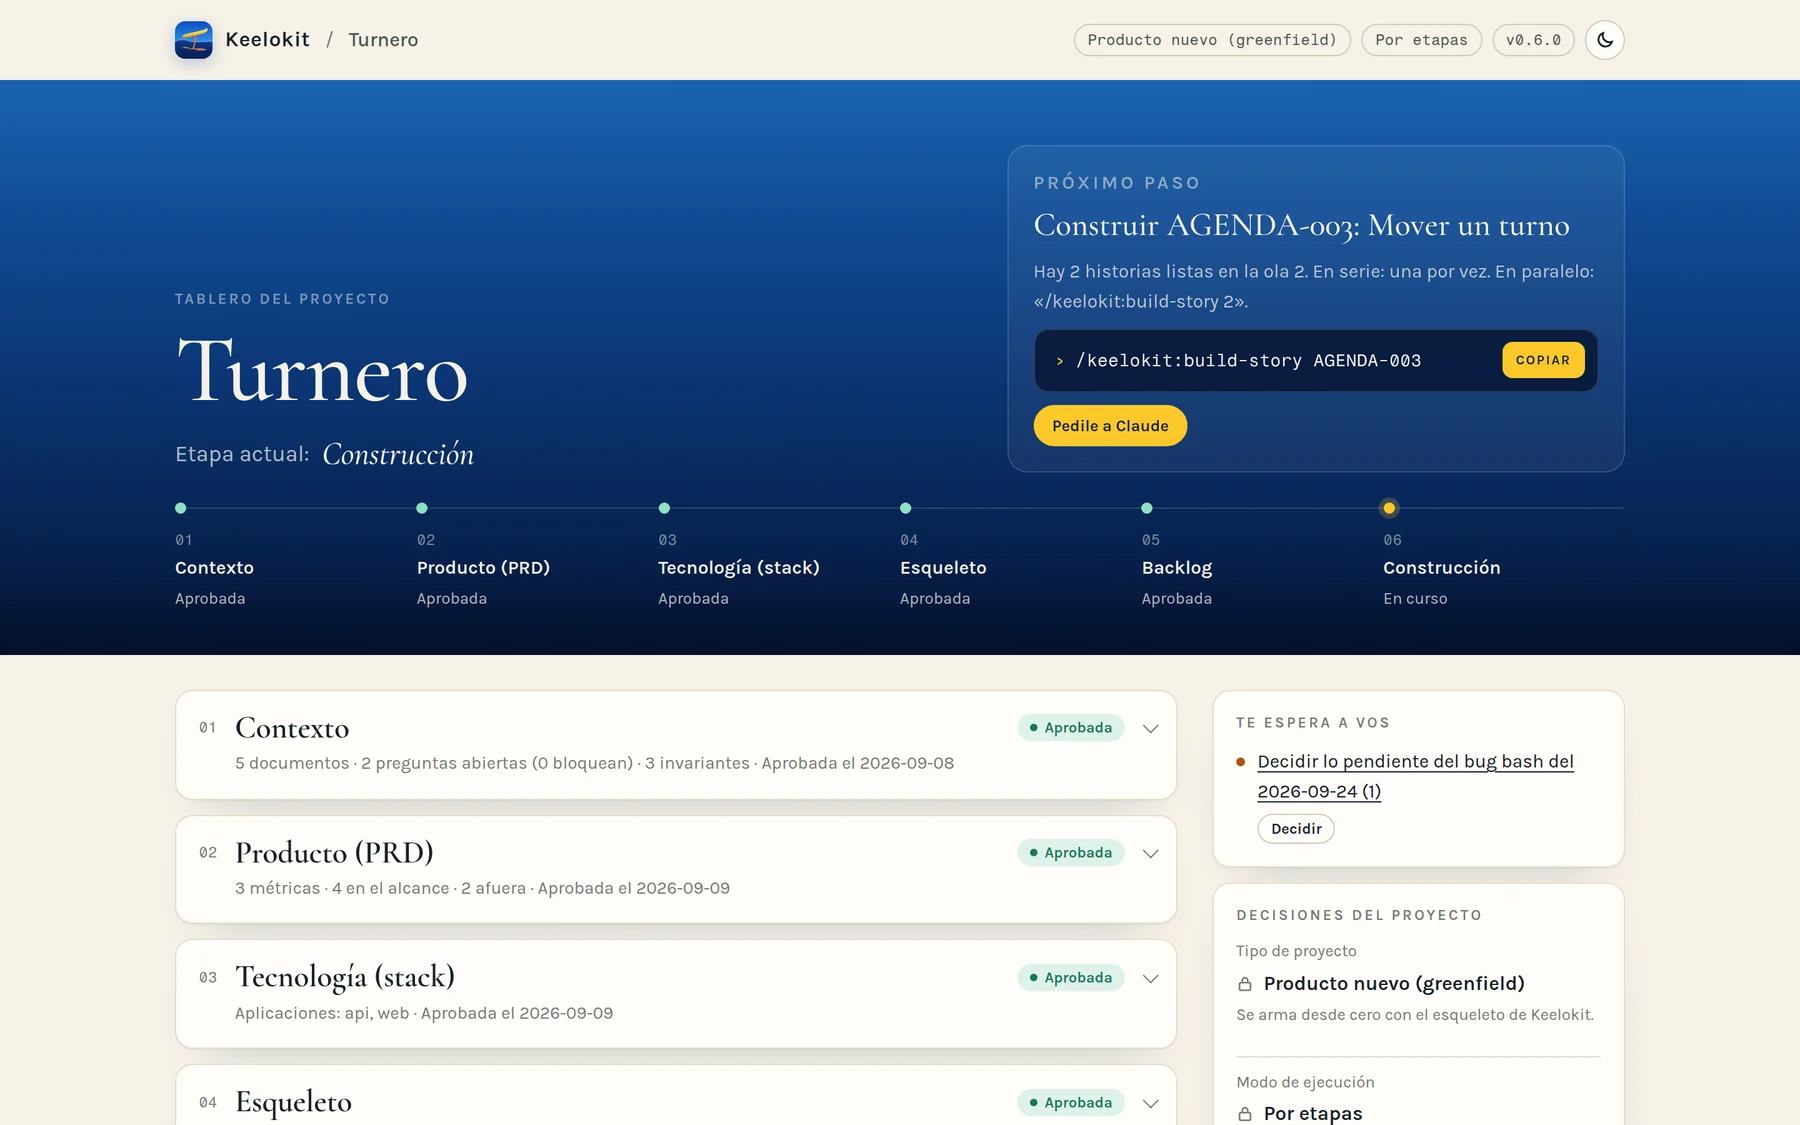
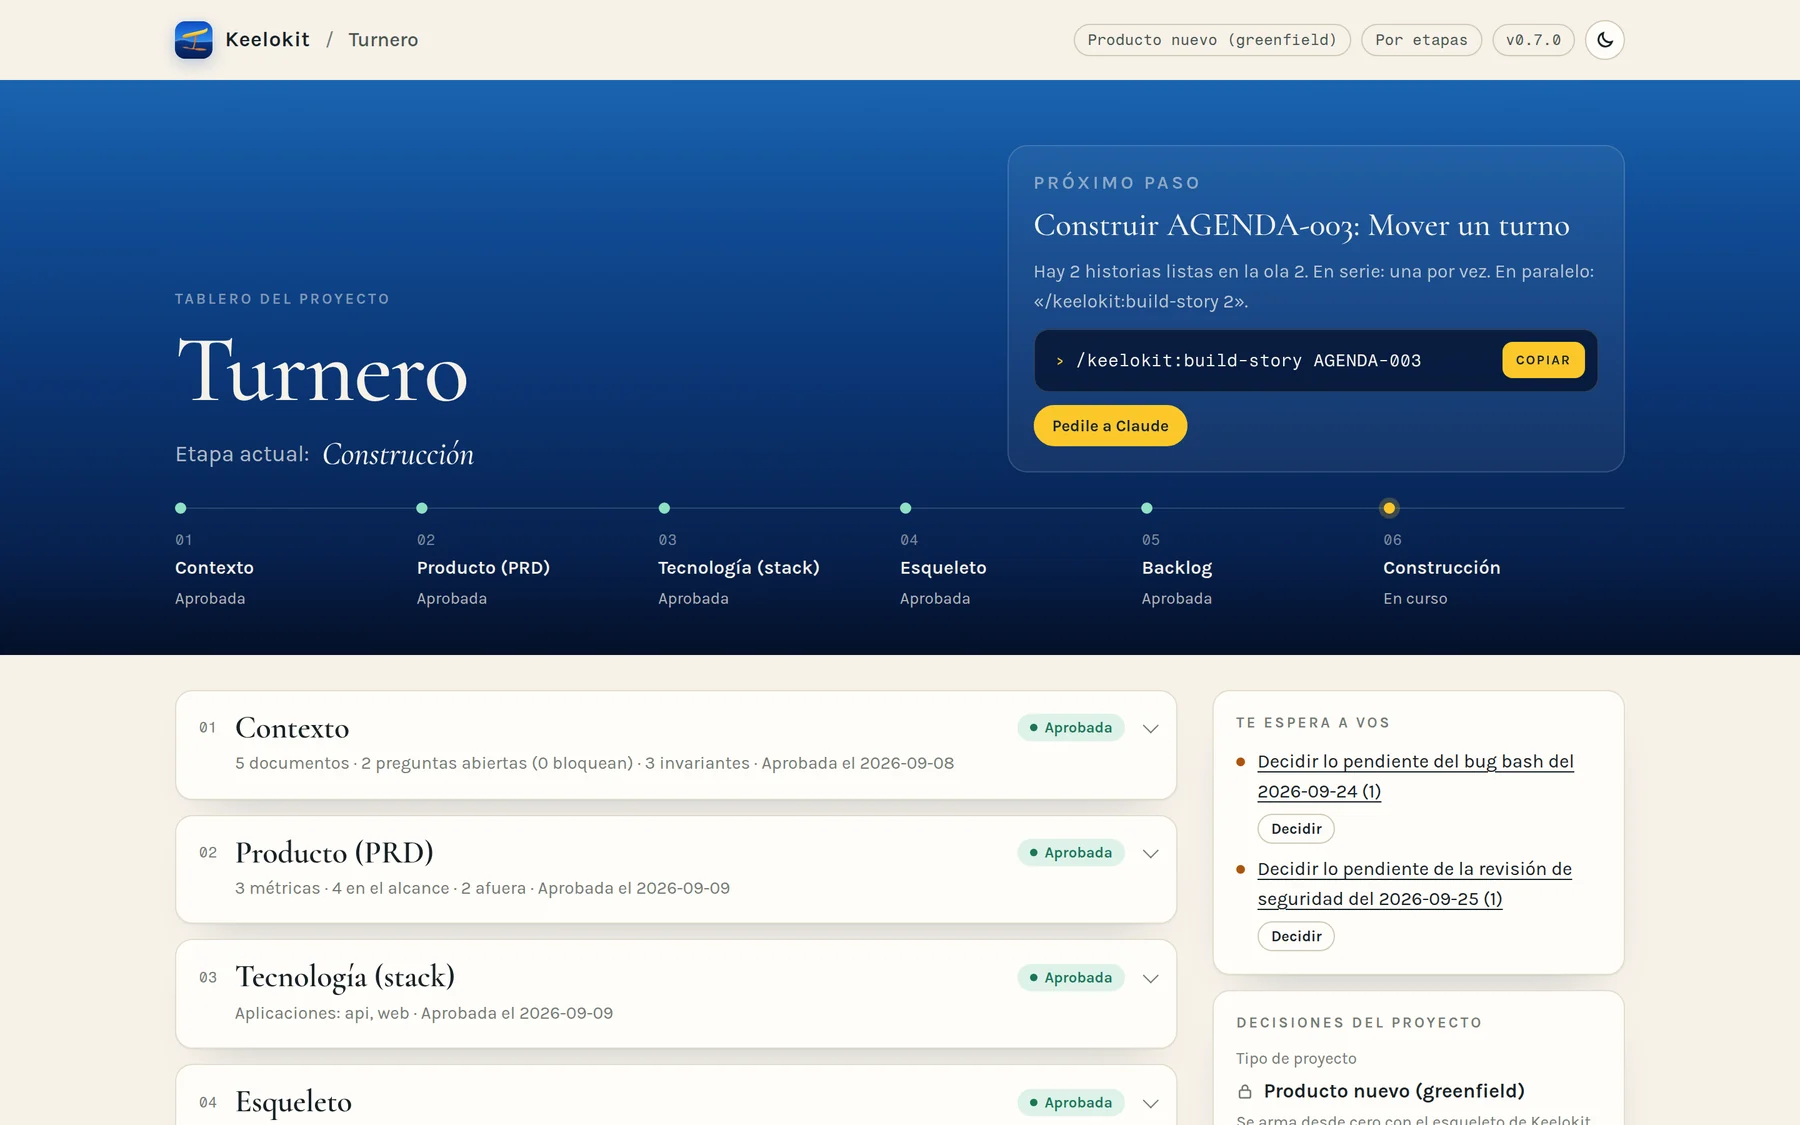
docs: 0.7.0 — commands by area in the READMEs, lifecycle, changelog; routing to ship-setup and ship-release
Claude-Session: https://claude.ai/code/session_01GzefXwY3r5MrLAN2X2Eaky

Changed region(s): [[0.6844, 0.7467, 0.9022, 1.0]]

diff --git a/skills/project-dashboard/scripts/dashboard.py b/skills/project-dashboard/scripts/dashboard.py
@@ -752,8 +752,8 @@ def collect(root: Path) -> dict:
             envs[row[0].strip("*` ")] = {"name": row[0].strip("*` "), "purpose": row[1] if len(row) > 1 else "",
                                          "url": row[2] if len(row) > 2 else "", "steps": []}
     for m in re.finditer(r"(?ms)^##\s+(.+?)\s*$(.*?)(?=^##\s|\Z)", deploy):
-        name = m.group(1).strip()
-        env = envs.setdefault(name, {"name": name, "purpose": "", "url": "", "steps": []})
+        env_name = m.group(1).strip()
+        env = envs.setdefault(env_name, {"name": env_name, "purpose": "", "url": "", "steps": []})
         env["steps"] = [{"done": x.lower() == "x", "text": t.strip()}
                         for x, t in re.findall(r"(?m)^\s*[-*]\s+\[([ xX])\]\s+(.+)$", m.group(2))]
         if not env["purpose"]:

diff --git a/tests/test_dashboard.py b/tests/test_dashboard.py
@@ -187,6 +187,7 @@ class DashboardTest(unittest.TestCase):
         self.write(".keelokit/answers.yml", "_commit: v0.0.1\nmode: project\nproject_name: Shop\n")
         self.write("docs/security/2026-10-01/report.md", "| Id | Area | Severity | Title | Status | Fix | Check |\n|---|---|---|---|---|---|---|\n| SEC-1 | logs | P1 | Emails in logs | pending decision | — | — |\n")
         s = self.state()
+        self.assertEqual(s["name"], "Shop")
         envs = {e["name"]: e for e in s["environments"]}
         self.assertEqual([x["done"] for x in envs["staging"]["steps"]], [True, False])
         self.assertEqual((envs["staging"]["url"], envs["staging"]["purpose"]), ("staging.shop.app", "every green main"))

diff --git a/README.es.md b/README.es.md
@@ -29,16 +29,25 @@ código no es el que dice que está terminado.
 
 | Comando | Qué pasa |
 |---|---|
+| `/keelokit` | Dónde está el proyecto, qué sigue y qué espera tu decisión |
+| **Proyecto** | |
 | `/keelokit:project-new` | De una idea a un esqueleto que funciona: una entrevista que escribe el contexto del producto, un PRD corto, el stack, un monorepo generado con CI y un primer backlog |
-| `/keelokit:project-adopt` | Para un repo existente: suma solo el harness (`.keelokit/`), mapea sus reglas a los checks que el repo ya tiene y deja el resto como excepciones con fecha |
+| `/keelokit:project-adopt` | Para un repo existente: suma solo el harness (`.keelokit/`), mapea sus reglas a los checks que el repo ya tiene, deja el resto como excepciones con fecha y muestra en el tablero lo que encontró |
+| `/keelokit:project-dashboard` | Una página con cada etapa, lo que espera tu revisión, las historias por ola de desarrollo y por épica, los entornos, los bug bashes y las revisiones de seguridad, las decisiones tomadas y botones para pedirle a Claude el próximo paso |
+| **Planificar** | |
 | `/keelokit:plan-intake` | Lee lo que ya tenés y pregunta solo lo que falta; lo que nadie sabe todavía queda como pregunta abierta |
 | `/keelokit:plan-backlog` | Épicas e historias con escenarios de aceptación y los invariantes que cuidan, agrupadas para que el trabajo en paralelo no toque los mismos archivos ni la misma área crítica |
+| **Construir** | |
 | `/keelokit:build-story` | Una historia: un verificador escribe primero los tests de aceptación, un builder los hace pasar, un revisor lee el diff, un breaker intenta romperla (de nuevo después del rebase si main avanzó) y el verificador la recorre en la app corriendo |
+| **Revisar** | |
 | `/keelokit:check-bugbash` | Una cacería de bugs en datos, API, integridad, UX, i18n, accesibilidad, seguridad y más; cada bug que se escapó suma un check para toda su clase, para que no vuelva |
-| `/keelokit:project-dashboard` | Una página con todas las etapas del proceso, lo que espera tu revisión (contexto, alcance y métricas del PRD, stack, historias por ola de desarrollo y por épica) y el próximo paso; se arma desde el repo, así que también muestra dónde quedó un proceso a medias |
+| `/keelokit:check-security` | Seguridad y privacidad a fondo: un mapa de los datos personales, la ley de privacidad de cada mercado, un modelo de amenazas de los recorridos críticos, escaneos de dependencias y de staging; corrige con un test y un control por clase |
 | `/keelokit:check-health` | ¿Cada regla sigue verificada? Sumar una regla, registrar una excepción |
-| `/keelokit:harness-upgrade` | Llevar un proyecto a un template más nuevo sin tocar el código del producto |
-| `/keelokit` | Dónde está el proyecto, qué sigue y qué espera tu decisión |
+| **Publicar** | |
+| `/keelokit:ship-setup` | Staging y producción para quien nunca desplegó nada: una guía con un checklist por entorno, los pasos que no necesitan tus credenciales resueltos por Keelokit, y cada uno verificado |
+| `/keelokit:ship-release` | Una versión del producto: notas de lo que entró, un tag `vX.Y.Z` después de tu sí, y producción solo cuando una persona lo aprueba en GitHub |
+| **Harness** | |
+| `/keelokit:harness-upgrade` | Mantenimiento del harness, no de tu app: trae al proyecto las reglas y los controles nuevos de Keelokit, en una rama, sin tocar el código del producto |
 
 ## Seguir el avance
 
@@ -64,6 +73,11 @@ persona: preguntas que solo vos podés responder, el PRD, cuentas, producción, 
 legales), y si las historias se construyen de a una o varias en paralelo.
 
 ## El stack que genera
+
+<picture>
+  <source media="(prefers-color-scheme: dark)" srcset="docs/assets/stack-dark.svg">
+  <img src="docs/assets/stack-light.svg" width="100%" alt="El stack que genera Keelokit: pnpm, TypeScript, NestJS, Prisma, PostgreSQL, React, Vite, Expo, Astro, Zod, Vitest, GitHub Actions, Fly.io">
+</picture>
 
 pnpm workspaces · TypeScript strict · NestJS + Prisma + PostgreSQL · Vite + React · Expo · Astro ·
 contratos zod e i18n en un paquete compartido · tokens de diseño en otro · Vitest, Jest,

diff --git a/README.md b/README.md
@@ -27,16 +27,25 @@ gaps instead of guesses, and the agent that writes the code isn't the one that s
 
 | Command | What happens |
 |---|---|
+| `/keelokit` | Where the project is, what's next, what's waiting for you |
+| **Project** | |
 | `/keelokit:project-new` | From an idea to a working skeleton: an interview that writes the product context, a short PRD, the stack, a generated monorepo with CI, and a first backlog |
-| `/keelokit:project-adopt` | For an existing repo: adds only the harness (`.keelokit/`), maps its rules to the checks the repo already has, and lists the rest as dated exceptions |
+| `/keelokit:project-adopt` | For an existing repo: adds only the harness (`.keelokit/`), maps its rules to the checks the repo already has, lists the rest as dated exceptions, and shows on the dashboard what it found |
+| `/keelokit:project-dashboard` | One page with every stage, what waits for your review, stories by development wave and by epic, environments, bug bashes and security reviews, the decisions taken, and buttons that ask Claude for the next step |
+| **Plan** | |
 | `/keelokit:plan-intake` | Reads what you already have, then asks only what's missing; what nobody knows yet is written down as an open question |
 | `/keelokit:plan-backlog` | Epics and stories with acceptance scenarios and the invariants they keep, grouped so parallel work doesn't touch the same files or the same critical area |
+| **Build** | |
 | `/keelokit:build-story` | One story: a verifier writes the acceptance tests first, a builder makes them pass, a reviewer reads the diff, a breaker tries to break it (again after rebasing if main moved), the verifier walks it in the running app |
+| **Check** | |
 | `/keelokit:check-bugbash` | A bug hunt across data, API, integrity, UX, i18n, accessibility, security and more; every bug that got through adds a check for its whole class so it doesn't come back |
-| `/keelokit:project-dashboard` | One page with every stage of the process, what waits for your review (context, PRD scope and metrics, stack, stories by development wave and by epic) and the next step; rebuilt from the repo, so it also tells you where a paused run stopped |
+| `/keelokit:check-security` | Security and privacy in depth: a map of the personal data, the privacy law of each market, a threat model of the critical journeys, dependency and staging scans; fixes with a test and a check per class |
 | `/keelokit:check-health` | Is every rule still checked? Add a rule, register an exception |
-| `/keelokit:harness-upgrade` | Bring a project to a newer template without touching its product code |
-| `/keelokit` | Where the project is, what's next, what's waiting for you |
+| **Ship** | |
+| `/keelokit:ship-setup` | Staging and production for people who have never deployed: a guide with a checklist per environment, the steps that need none of your credentials done for you, each one verified |
+| `/keelokit:ship-release` | A version of the product: release notes from what landed, a `vX.Y.Z` tag after your yes, and production only after a person approves it in GitHub |
+| **Harness** | |
+| `/keelokit:harness-upgrade` | Maintenance of the harness, not of your app: brings Keelokit's newer rules and checks into the project, on a branch, without touching its product code |
 
 ## Following along
 
@@ -62,6 +71,11 @@ questions only you can answer, the PRD, accounts, production, money, legal), and
 are built one at a time or several in parallel.
 
 ## The stack it generates
+
+<picture>
+  <source media="(prefers-color-scheme: dark)" srcset="docs/assets/stack-dark.svg">
+  <img src="docs/assets/stack-light.svg" width="100%" alt="The stack Keelokit generates: pnpm, TypeScript, NestJS, Prisma, PostgreSQL, React, Vite, Expo, Astro, Zod, Vitest, GitHub Actions, Fly.io">
+</picture>
 
 pnpm workspaces · TypeScript strict · NestJS + Prisma + PostgreSQL · Vite + React · Expo ·
 Astro · zod contracts and i18n in a shared package · design tokens in another · Vitest, Jest,

diff --git a/CHANGELOG.md b/CHANGELOG.md
@@ -1,5 +1,36 @@
 # Changelog
 
+## Unreleased — ship it
+
+- **`/keelokit:ship-release`**: versions of the product. Picks the next semver from what landed,
+  writes release notes users understand (each line tied to its story or finding), tags `vX.Y.Z`
+  on `main` after the user's yes, and follows the deploy. New house rule **REL-1**: production
+  only runs a tag on `main` with its `CHANGELOG.md` entry, after a person approves the
+  `production` environment in GitHub. The template gains `.github/workflows/release.yml` (checks
+  the tag and the notes, then deploys the API to Fly.io behind that approval) and `CHANGELOG.md`.
+- **`/keelokit:ship-setup`**: staging and production for people who have never deployed.
+  Writes `docs/deploy.md` with a checklist per environment, does what needs none of the user's
+  credentials (Fly.io apps and config, GitHub environments with production approval, deploy
+  tokens piped into GitHub secrets), walks the user through the rest, and verifies each step.
+- **`/keelokit:check-security`**: security and privacy in depth — a map of the personal data
+  (`docs/privacy/data-map.md`), the privacy law of each market, a threat model of the critical
+  journeys, dependency, image and staging (OWASP ZAP) scans, and checks for personal data in logs,
+  export and deletion, retention and encryption. Report in `docs/security/<date>/report.md`.
+- **`/keelokit:harness-upgrade`** (was `ship-upgrade`): the same skill, named for what it does —
+  maintenance of the harness, not of the app.
+- The dashboard adds **Environments** (each one's checklist from `docs/deploy.md`), **Security and
+  privacy** (each review's findings, pending decisions and the stories it created), **What we
+  found** for adopted repos (the stack, CI and hosting `project-adopt` saves in
+  `.keelokit/survey.toml`, and how the house rules map onto the repo), and a notice when the
+  project's harness is older than the plugin.
+
+### Upgrading from 0.6.x
+
+- `/keelokit:ship-upgrade` is now `/keelokit:harness-upgrade`; run it to bring REL-1, the release
+  workflow and `CHANGELOG.md` into the project.
+- REL-1's deploy job uses the GitHub environment `production`: give it required reviewers and its
+  own `FLY_API_TOKEN` (the production app's deploy token). `/keelokit:ship-setup` does both.
+
 ## 0.6.0 — 2026-09-27 — the dashboard
 
 - **Commands grouped by area.** Every skill now carries a prefix, so the `/keelokit:` menu lists

diff --git a/docs/design.md b/docs/design.md
@@ -54,6 +54,8 @@ bump for agents, not a sandbox; the git hooks and CI are the backstop.
 | Existing repo | `project-adopt`: intake → `.keelokit/` + rule mapping → diagnosis → backlog | each exception |
 | Build | `build-story`: contract → verifier's tests → builder → reviewer + breaker → verifier walks the app → rebase, breaker again if main moved → land | product rules the story doesn't define, new invariants |
 | Quality | `check-bugbash`: lenses per dimension → validation → root-cause fixes → a new check per escape | pending product decisions |
+| Security | `check-security`: data map → privacy law per market → threat model → scans → root-cause fixes → a check per class | privacy choices, legal questions |
+| Ship | `ship-setup`: a verified checklist per environment · `ship-release`: notes → tag → production after approval (REL-1) | accounts, money, every production release |
 | Keep up | `harness-upgrade`, `check-health` | rule changes, exceptions |
 
 Reserved for the human always: production deploys, money, legal, deleting data.

diff --git a/skills/project-new/SKILL.md b/skills/project-new/SKILL.md
@@ -125,9 +125,9 @@ the receptionist opens on the phone", not "Vite + React"), and ask for approval.
    template itself is wrong, say so: it must be fixed in Keelokit.
 4. First commit: `chore: skeleton from Keelokit v<version>`.
 5. Ask whether to create a private GitHub repo (`gh repo create <slug> --private --source . --push`).
-6. Staging: the API deploys to Fly.io from CI. The Fly account, `fly auth login`, secrets and the
-   `FLY_API_TOKEN` GitHub secret are the user's — walk them through the README's Deploy section;
-   never type credentials yourself. Record the gate even if staging setup is deferred, and add a
+6. Staging: the API deploys to Fly.io from CI. Offer `/keelokit:ship-setup` now: it writes the
+   deploy guide, does what needs none of the user's credentials and verifies each step. The Fly
+   account, logins, payment and third-party keys stay the user's; never type credentials yourself. Record the gate even if staging setup is deferred, and add a
    non-blocking gap "staging not configured" (owner: user).
 
 ## 5. Backlog

diff --git a/skills/keelokit/SKILL.md b/skills/keelokit/SKILL.md
@@ -28,6 +28,8 @@ Answer three things, in this order, in at most ten lines:
    | Blocking context gaps | Ask the gap questions (owner = the user) and update `docs/context/` |
    | Stories ready | Propose `/keelokit:build-story` on the first ready story (or N of the same wave) |
    | A wave just finished, or a release is near | Propose `/keelokit:check-bugbash` |
+   | A wave is done and its bug bash is clean | Propose `/keelokit:ship-release` (and `/keelokit:check-security` before the first production release) |
+   | The skeleton exists but `docs/deploy.md` doesn't, or an environment's checklist has open steps | Propose `/keelokit:ship-setup` |
    | Nothing ready, backlog not empty | Show which dependency blocks the next wave |
    | Backlog empty or done | Offer `/keelokit:plan-backlog` for the next slice, or a new feature intake |
 4. If the user already said what they want, skip the report and do it.
